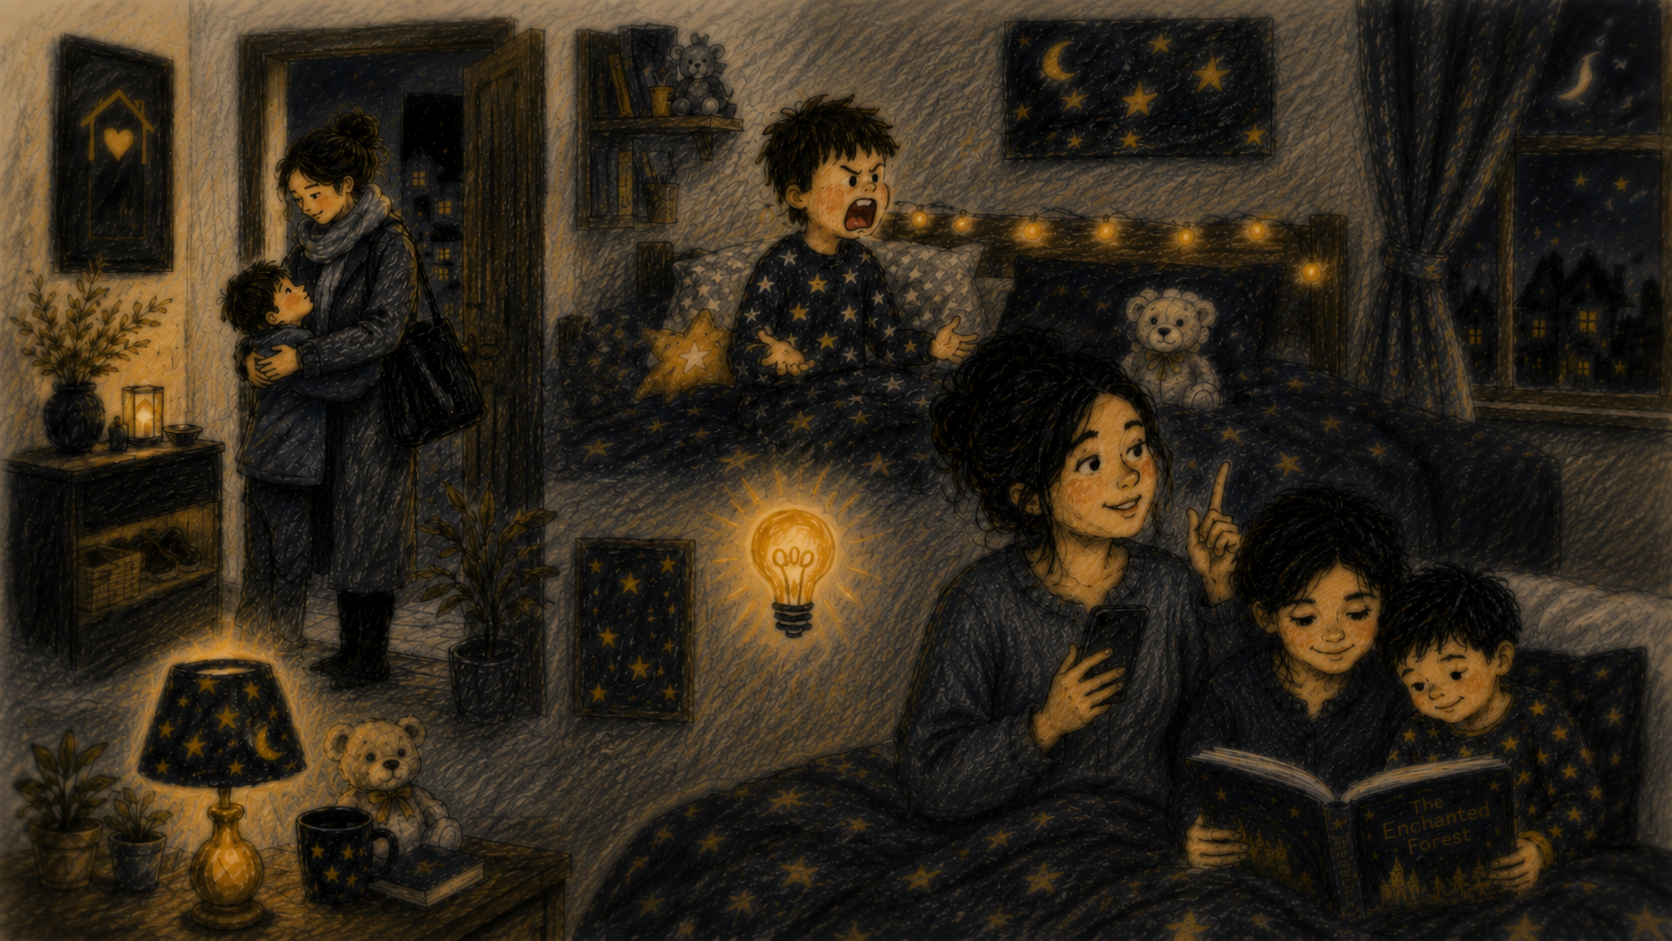
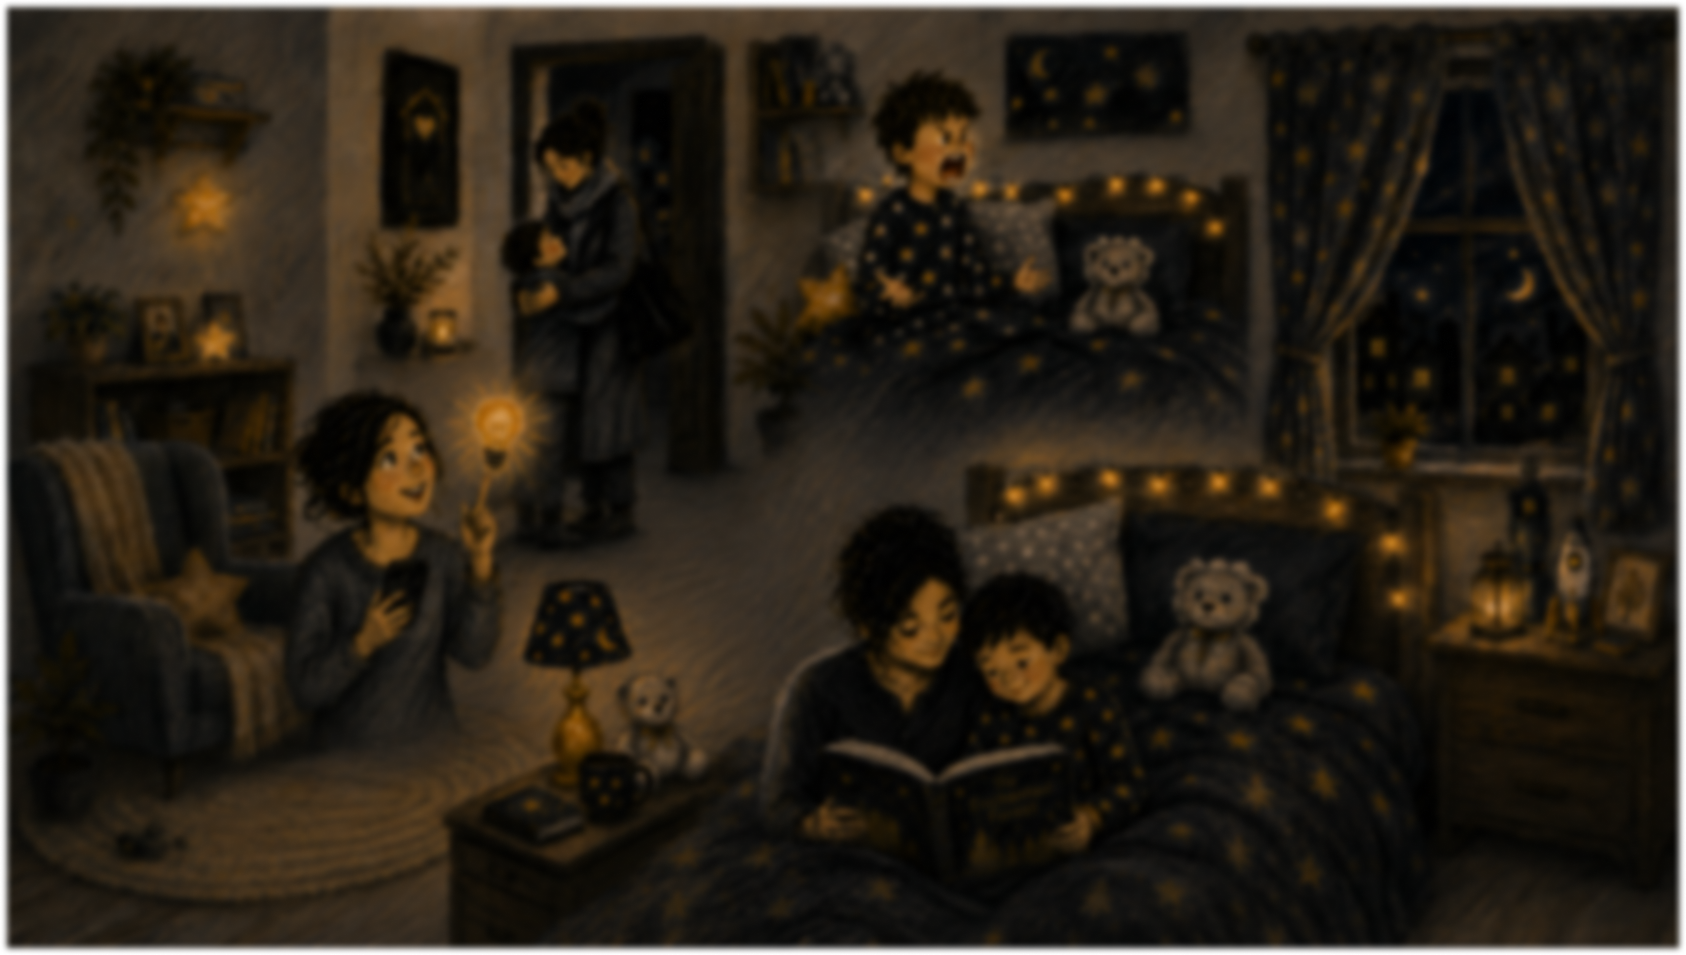
feat: обновил отзывы и фоны нижних блоков

diff --git a/app/page.tsx b/app/page.tsx
@@ -1,4 +1,5 @@
 import type { CSSProperties } from "react";
+import Image from "next/image";
 import { ContactForm } from "@/components/site/contact-form";
 import { PricingTabs } from "@/components/site/pricing-tabs";
 
@@ -50,10 +51,19 @@ const howSteps = [
 ] as const;
 
 const reviews = [
-  "После работы реально стало проще уложить сына: новая история каждый вечер и никаких уговоров.",
-  "Дочке нравится, что в сериях появляются ее друзья, любимые места и знакомые мелочи дня.",
-  "Текст получается живым, а не шаблонным, поэтому сервис быстро стал частью нашего вечернего ритуала."
-];
+  {
+    src: "/landing/review-1.png",
+    alt: "Отзыв о том, что после работы стало проще укладывать сына"
+  },
+  {
+    src: "/landing/review-2.png",
+    alt: "Отзыв о персональных историях для дочери"
+  },
+  {
+    src: "/landing/review-3.png",
+    alt: "Отзыв о живых текстах и вечернем ритуале"
+  }
+] as const;
 
 export default function HomePage() {
   return (
@@ -118,7 +128,7 @@ export default function HomePage() {
         </div>
       </section>
 
-      <section id="pricing" className="landing-section landing-band landing-band--dark landing-pricing">
+      <section id="pricing" className="landing-section landing-band landing-band--dark landing-shared-background">
         <div className="landing-container">
           <SectionHeading eyebrow="Тарифы" title="Выберите качество своей истории" />
           <div className="landing-section__body">
@@ -127,21 +137,26 @@ export default function HomePage() {
         </div>
       </section>
 
-      <section id="reviews" className="landing-section landing-band landing-band--gray">
+      <section id="reviews" className="landing-section landing-band landing-band--gray landing-shared-background">
         <div className="landing-container">
           <SectionHeading eyebrow="Отзывы" title="Вечера, которые стали проще" />
           <div className="landing-reviews">
-            {reviews.map((review, index) => (
-              <article key={review} className="landing-review">
-                <span>0{index + 1}</span>
-                <p>{review}</p>
+            {reviews.map((review) => (
+              <article key={review.src} className="landing-review">
+                <Image
+                  src={review.src}
+                  alt={review.alt}
+                  width={1254}
+                  height={1254}
+                  sizes="(max-width: 767px) 100vw, 33vw"
+                />
               </article>
             ))}
           </div>
         </div>
       </section>
 
-      <section id="contact" className="landing-section landing-band landing-band--dark">
+      <section id="contact" className="landing-section landing-band landing-band--dark landing-shared-background">
         <div className="landing-container landing-contact">
           <div className="landing-contact__copy">
             <p className="section-heading__eyebrow">Связаться</p>

diff --git a/app/globals.css b/app/globals.css
@@ -3367,7 +3367,7 @@ header img {
   background: #101010;
 }
 
-.landing-pricing {
+.landing-shared-background {
   background-color: #101010;
   background-image:
     linear-gradient(180deg, rgba(5, 5, 5, 0.48), rgba(5, 5, 5, 0.68)),
@@ -3880,34 +3880,19 @@ header img {
 .landing-reviews {
   display: grid;
   grid-template-columns: repeat(3, minmax(0, 1fr));
-  border-top: 1px solid rgba(255, 255, 255, 0.14);
+  gap: clamp(0.8rem, 1.5vw, 1.5rem);
 }
 
 .landing-review {
-  min-height: 22rem;
-  border: 0;
-  border-right: 1px solid rgba(255, 255, 255, 0.14);
-  background: transparent;
-  padding: 2rem;
+  overflow: hidden;
+  border: 1px solid rgba(255, 255, 255, 0.14);
+  background: #111111;
 }
 
-.landing-review:last-child {
-  border-right: 0;
-}
-
-.landing-review > span {
-  color: var(--accent-gold);
-  font-size: 0.75rem;
-  font-weight: 900;
-  letter-spacing: 0.2em;
-}
-
-.landing-review p {
-  margin: 5.5rem 0 0;
-  color: #ffffff;
-  font-size: clamp(1.25rem, 2vw, 1.8rem);
-  font-weight: 700;
-  line-height: 1.35;
+.landing-review img {
+  display: block;
+  width: 100%;
+  height: auto;
 }
 
 .landing-contact {
@@ -4046,7 +4031,7 @@ header img {
 }
 
 @media (max-width: 767px) {
-  .landing-pricing {
+  .landing-shared-background {
     background-image:
       linear-gradient(180deg, rgba(5, 5, 5, 0.44), rgba(5, 5, 5, 0.68)),
       url("/landing/pricing-mobile.png");
@@ -4112,18 +4097,6 @@ header img {
 
   .how-card {
     min-height: 24rem;
-  }
-
-  .landing-review,
-  .landing-review:last-child {
-    min-height: 16rem;
-    border-right: 0;
-    border-bottom: 1px solid rgba(255, 255, 255, 0.14);
-    padding-inline: 0;
-  }
-
-  .landing-review p {
-    margin-top: 3rem;
   }
 
   .landing-contact {
